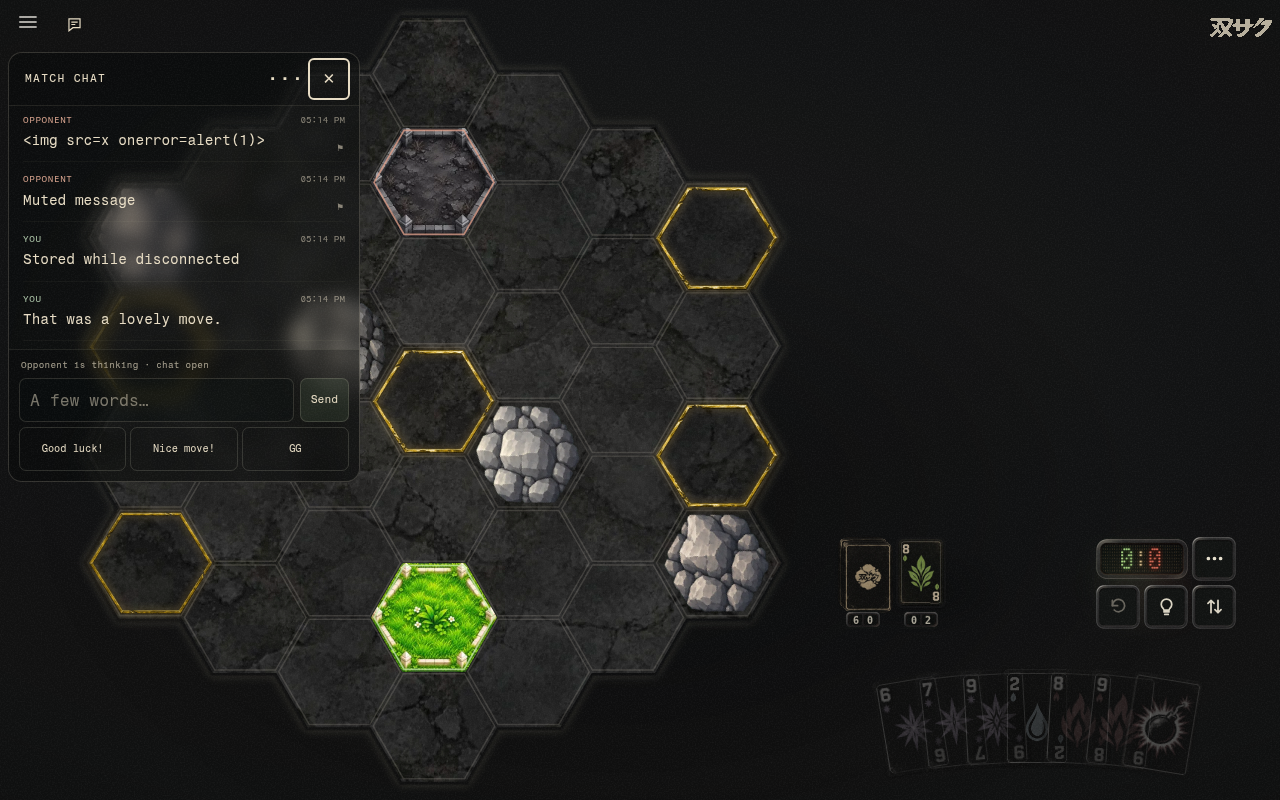
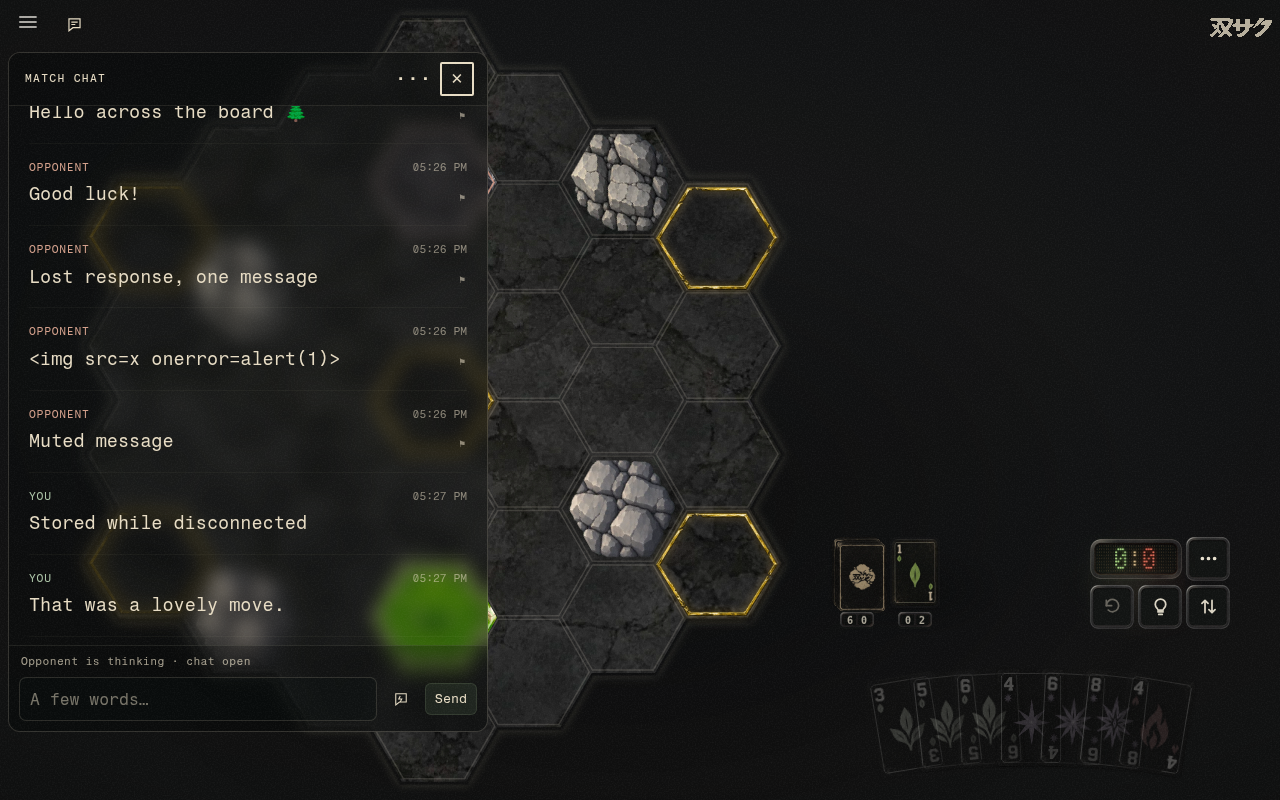
Expand match chat into a refined reading panel with tucked-away quick phrases

diff --git a/web/src/online/chat/style.ts b/web/src/online/chat/style.ts
@@ -3,7 +3,7 @@ export const CHAT_CSS = `
 #match-chat-toggle { position:absolute;left:52px;top:2px;width:44px;height:44px;z-index:12;pointer-events:auto;display:grid;place-items:center;color:#e8ddc5; }
 #match-chat-toggle svg {width:19px;height:19px;stroke:currentColor;stroke-width:1.5;fill:none;}
 .match-chat-dot {position:absolute;right:5px;top:6px;width:6px;height:6px;border-radius:50%;background:#e8ddc5;box-shadow:0 0 0 3px rgba(8,10,10,.5);}
-.match-chat-panel {position:fixed;z-index:65;top:var(--chat-top,56px);left:max(8px,env(safe-area-inset-left));width:min(352px,calc(100vw - 16px - env(safe-area-inset-right) - env(safe-area-inset-left)));height:min(430px,var(--chat-height,calc(100dvh - 72px)));box-sizing:border-box;display:flex;flex-direction:column;overflow:hidden;background:var(--dark-glass,rgba(8,10,10,.42));-webkit-backdrop-filter:var(--dark-glass-blur,blur(9px) saturate(1.05));backdrop-filter:var(--dark-glass-blur,blur(9px) saturate(1.05));border:1px solid rgba(232,221,197,.18);border-radius:14px;box-shadow:0 12px 36px #0004,inset 0 1px #fff08;animation:match-chat-in var(--ix-press,90ms) var(--ix-ease-open,ease-out);}
+.match-chat-panel {position:fixed;z-index:65;top:var(--chat-top,56px);left:max(8px,env(safe-area-inset-left));width:min(480px,calc(100vw - 16px - env(safe-area-inset-right) - env(safe-area-inset-left)));height:min(680px,var(--chat-height,calc(100dvh - 72px)));box-sizing:border-box;display:flex;flex-direction:column;overflow:hidden;background:var(--dark-glass,rgba(8,10,10,.42));-webkit-backdrop-filter:var(--dark-glass-blur,blur(9px) saturate(1.05));backdrop-filter:var(--dark-glass-blur,blur(9px) saturate(1.05));border:1px solid rgba(232,221,197,.18);border-radius:12px;box-shadow:0 12px 36px #0004,inset 0 1px #fff08;animation:match-chat-in var(--ix-press,90ms) var(--ix-ease-open,ease-out);}
 .match-chat-panel[hidden], .match-chat [hidden], #match-chat-toggle[hidden] {display:none!important;}
 .match-chat-head {display:flex;align-items:center;justify-content:space-between;gap:8px;padding:4px 8px 4px 16px;flex:none;border-bottom:1px solid #e8ddc51a;background:#080a0a38;}
 .match-chat-head-keys{display:flex;flex:none;}
@@ -13,25 +13,31 @@ export const CHAT_CSS = `
 .match-chat button:active {transform:translateY(1px);background:#e8ddc51a;}
 .match-chat button:focus-visible,.match-chat input:focus-visible,.match-chat select:focus-visible {outline:2px solid #e8ddc5;outline-offset:-3px;}
 .match-chat button:disabled {opacity:.36;cursor:default;transform:none;}
+.match-chat-head button:focus-visible{outline-offset:-7px;}
 .match-chat-head button {width:44px;padding:0;border:0;font-size:20px;}
-.match-chat-log {flex:1;min-height:36px;overflow:auto;overscroll-behavior:contain;scrollbar-width:thin;padding:8px 14px;overflow-anchor:none;}
-.match-chat-line {padding:10px 0;border-bottom:1px solid #e8ddc50b;overflow-wrap:anywhere;}
-.match-chat-meta {display:flex;align-items:center;gap:8px;color:#e8ddc58c;font-size:9px;letter-spacing:.07em;text-transform:uppercase;}
+.match-chat-log {flex:1;min-height:36px;overflow:auto;overscroll-behavior:contain;scrollbar-width:thin;padding:8px 20px;overflow-anchor:none;}
+.match-chat-line {padding:16px 0;border-bottom:1px solid #e8ddc50b;overflow-wrap:anywhere;}
+.match-chat-meta {display:flex;align-items:center;gap:8px;color:#e8ddc58c;font-size:11px;letter-spacing:.07em;text-transform:uppercase;}
 .match-chat-line[data-mine='true'] .match-chat-speaker {color:#abc3a6;}
 .match-chat-line[data-mine='false'] .match-chat-speaker {color:#d4a18c;}
 .match-chat-time {margin-left:auto;letter-spacing:0;}
-.match-chat-text {font-family:var(--font);font-size:14px;line-height:1.45;margin:5px 0 0;white-space:pre-wrap;}
+.match-chat-text {font-family:var(--font);font-size:18px;line-height:1.55;margin:5px 0 0;white-space:pre-wrap;}
 .match-chat-report {font-size:10px!important;min-height:44px!important;float:right;margin:0 -6px -4px 6px;padding:4px 8px!important;border:0!important;color:#e8ddc58c!important;}
-.match-chat-empty {color:#e8ddc58c;font-size:12px;line-height:1.6;padding:12px 0;}
-.match-chat-foot {flex:none;border-top:1px solid #e8ddc51a;padding:8px 10px max(10px,env(safe-area-inset-bottom));background:#080a0a45;}
-.match-chat-status {font-size:9px;line-height:1.5;letter-spacing:.035em;color:#e8ddc5b3;margin:0 2px 7px;}
+.match-chat-empty {color:#e8ddc58c;font-size:17px;line-height:1.6;padding:12px 0;}
+.match-chat-foot {position:relative;flex:none;border-top:1px solid #e8ddc51a;padding:8px 10px max(10px,env(safe-area-inset-bottom));background:#080a0a45;}
+.match-chat-status {font-size:11px;line-height:1.5;letter-spacing:.035em;color:#e8ddc5b3;margin:0 2px 7px;}
 .match-chat-form {display:flex;gap:6px;}
 .match-chat input {min-width:0;flex:1;border:1px solid #e8ddc529;border-radius:7px;background:#080a0a40;color:#e8ddc5;font-family:var(--font);font-size:16px;min-height:44px;box-sizing:border-box;padding:8px 10px;}
 .match-chat input:disabled {opacity:.45;}
 .match-chat input::placeholder {color:#e8ddc580;}
-.match-chat-send {font-size:11px!important;background:#728b6826!important;}
-.match-chat-phrases {display:flex;flex-wrap:wrap;gap:4px;margin-top:5px;}
-.match-chat-phrases button {font-size:10px;flex:1;padding:4px 8px;}
+.match-chat-send {font-size:13px!important;border:0!important;background:transparent!important;position:relative;isolation:isolate;}
+.match-chat-send::before{content:'';position:absolute;inset:6px 0;background:#728b6826;border:1px solid #a8bf9226;border-radius:6px;z-index:-1;}
+.match-chat-phrase-toggle{position:relative;flex:none;width:36px;padding:0!important;border:0!important;display:grid;place-items:center;}
+.match-chat-phrase-toggle svg{width:18px;height:18px;fill:none;stroke:currentColor;stroke-width:1.4;}
+.match-chat-phrase-toggle[aria-expanded='true']{color:#b8c8ad;background:#728b681a;}
+.match-chat-phrases {position:absolute;right:12px;bottom:calc(100% + 8px);display:flex;flex-direction:column;gap:2px;width:min(240px,calc(100% - 24px));padding:6px;box-sizing:border-box;max-height:max(56px,calc(var(--chat-height,500px) - 164px));overflow:auto;overscroll-behavior:contain;background:rgba(12,15,14,.94);backdrop-filter:var(--dark-glass-blur);border:1px solid #e8ddc52b;border-radius:9px;box-shadow:0 8px 24px #0005;z-index:2;}
+
+.match-chat-phrases button {font-size:15px;text-align:left;border:0;padding:6px 12px;}
 .match-chat-controls {border-top:1px solid #e8ddc514;padding:0 10px;flex:none;max-height:40%;overflow:auto;}
 .match-chat-controls:not([open]){display:none;}
 .match-chat-controls summary {display:none!important;cursor:pointer;min-height:44px;display:flex;align-items:center;font-size:10px;color:#e8ddc58c;}
@@ -43,9 +49,10 @@ export const CHAT_CSS = `
 .match-chat-outgoing {font-size:11px;line-height:1.5;padding:6px 0;color:#e8ddc5a6;}
 .match-chat-outgoing button {min-height:44px;font-size:10px;margin-left:6px;}
 body.paused .match-chat,body.result .match-chat,body.paused #match-chat-toggle {visibility:hidden;}
-.match-chat[data-keyboard='true'] :is(.match-chat-phrases,.match-chat-controls) {display:none;}
+.match-chat[data-keyboard='true'] .match-chat-controls {display:none;}
 @keyframes match-chat-in {from{opacity:0;transform:translateY(calc(var(--ix-travel,12px) / -4))}to{opacity:1;transform:none}}
-@media(max-height:450px) {.match-chat-panel{width:min(352px,50vw);height:var(--chat-height,calc(100dvh - 60px));}.match-chat-phrases{margin-top:2px}.match-chat-controls summary{min-height:44px}.match-chat-line{padding:6px 0}.match-chat-foot{padding:5px 8px;}}
+@media(max-height:450px) {.match-chat-panel{width:min(480px,calc(100vw - 16px));height:var(--chat-height,calc(100dvh - 60px));}.match-chat-phrases{margin-top:2px}.match-chat-controls summary{min-height:44px}.match-chat-line{padding:12px 0}.match-chat-foot{padding:5px 8px;}}
+@media(max-width:600px) {.match-chat-panel{width:calc(100vw - 16px - env(safe-area-inset-left) - env(safe-area-inset-right));height:var(--chat-height,calc(100dvh - 64px));}.match-chat-head{padding-left:18px;}.match-chat-text{font-size:18px;}.match-chat-log{padding-inline:18px;}}
 @media(prefers-reduced-motion:reduce) {.match-chat-panel{animation:none}.match-chat button:active{transform:none}}
 .reduce-motion .match-chat-panel {animation:none;}
 `;

diff --git a/web/src/online/chat/view.ts b/web/src/online/chat/view.ts
@@ -71,6 +71,7 @@ export const mountMatchChat = (o: {
   const close = button('×', () => setOpen(false));
   close.setAttribute('aria-label', copy.close);
   const toolsToggle = button('···', () => {
+    setPhrases(false);
     controls.open = !controls.open;
   });
   toolsToggle.setAttribute('aria-label', copy.tools);
@@ -139,6 +140,7 @@ export const mountMatchChat = (o: {
       );
       return;
     }
+    setPhrases(false);
     void ctl.send();
   };
   let composing = false;
@@ -160,12 +162,38 @@ export const mountMatchChat = (o: {
     if (e.key === 'Enter' && (e.isComposing || composing || e.keyCode === 229))
       e.preventDefault();
   };
-  form.append(input, send);
   const phrases = document.createElement('div');
   phrases.className = 'match-chat-phrases';
+  phrases.id = 'match-chat-phrases';
+  phrases.hidden = true;
+  phrases.setAttribute('role', 'group');
+  phrases.setAttribute('aria-label', copy.quickPhrases);
+  const phraseToggle = button('', () => setPhrases(Boolean(phrases.hidden)));
+  phraseToggle.className = 'match-chat-phrase-toggle';
+  phraseToggle.setAttribute('aria-label', copy.quickPhrases);
+  phraseToggle.setAttribute('aria-expanded', 'false');
+  phraseToggle.setAttribute('aria-controls', phrases.id);
+  phraseToggle.innerHTML =
+    '<svg viewBox="0 0 24 24" aria-hidden="true"><path d="M5 5h14v11H10l-5 4V5Z"/><path d="m11 8-2 4h4l-2 4"/></svg>';
+  function setPhrases(open: boolean) {
+    phrases.hidden = !open;
+    phraseToggle.setAttribute('aria-expanded', String(open));
+    if (open) {
+      controls.open = false;
+      const first = phrases.querySelector<HTMLButtonElement>(
+        'button:not(:disabled)',
+      );
+      (first ?? phraseToggle).focus({ preventScroll: true });
+    }
+  }
+  form.append(input, phraseToggle, send);
   for (const id of Object.keys(copy.phrases) as QuickPhrase[])
     phrases.append(
-      button(copy.phrases[id], () => void ctl.send({ text: null, phrase: id })),
+      button(copy.phrases[id], () => {
+        setPhrases(false);
+        phraseToggle.focus({ preventScroll: true });
+        void ctl.send({ text: null, phrase: id });
+      }),
     );
   foot.append(status, outgoing, form, phrases);
   const controls = document.createElement('details');
@@ -384,6 +412,7 @@ export const mountMatchChat = (o: {
     block.setAttribute('aria-pressed', String(s.blockedByMe));
   }
   function setOpen(value: boolean) {
+    setPhrases(false);
     ctl.setOpen(value);
     if (value) {
       close.focus({ preventScroll: true });
@@ -398,6 +427,13 @@ export const mountMatchChat = (o: {
   }
   toggle.onclick = () => setOpen(!ctl.state().open);
   const keydown = (e: KeyboardEvent) => {
+    if (e.key === 'Escape' && !phrases.hidden) {
+      e.preventDefault();
+      e.stopPropagation();
+      setPhrases(false);
+      phraseToggle.focus({ preventScroll: true });
+      return;
+    }
     if (e.key === 'Escape' && ctl.state().open) {
       e.preventDefault();
       e.stopPropagation();
@@ -406,6 +442,12 @@ export const mountMatchChat = (o: {
   };
   document.addEventListener('keydown', keydown, true);
   const outside = (e: PointerEvent) => {
+    if (
+      !phrases.hidden &&
+      !phrases.contains(e.target as Node) &&
+      !phraseToggle.contains(e.target as Node)
+    )
+      setPhrases(false);
     if (
       ctl.state().open &&
       !root.contains(e.target as Node) &&
@@ -427,30 +469,18 @@ export const mountMatchChat = (o: {
   window.addEventListener('online', resume);
   window.addEventListener('focus', resume);
   const viewport = () => {
+    const followLatest =
+      log.scrollHeight - log.scrollTop - log.clientHeight < 44;
     const v = window.visualViewport;
     const height = v?.height ?? window.innerHeight;
     const keyboard = height < window.innerHeight * 0.75;
     const top = keyboard && height < 350 ? 8 : 52;
-    let available = height - top - 12;
-    const dock = o.host.querySelector<HTMLElement>('#dock, .dock');
-    // Portrait: keep the entire cockpit usable. Landscape/desktop place it beside the board.
-    if (
-      !keyboard &&
-      window.innerWidth < 600 &&
-      window.innerHeight > window.innerWidth &&
-      dock
-    ) {
-      const dockTop = dock.getBoundingClientRect().top;
-      if (dockTop > top + 180)
-        available = Math.min(available, dockTop - top - 8);
-    }
+    const available = height - top - 12;
     root.dataset.keyboard = String(keyboard);
     root.style.setProperty('--chat-top', `${(v?.offsetTop ?? 0) + top}px`);
     root.style.setProperty('--chat-height', `${Math.max(120, available)}px`);
+    if (followLatest && ctl.state().open) log.scrollTop = log.scrollHeight;
   };
-  const dockObserver = new ResizeObserver(viewport);
-  const dock = o.host.querySelector<HTMLElement>('#dock, .dock');
-  if (dock) dockObserver.observe(dock);
   window.visualViewport?.addEventListener('resize', viewport);
   window.visualViewport?.addEventListener('scroll', viewport);
   window.addEventListener('resize', viewport);
@@ -460,7 +490,6 @@ export const mountMatchChat = (o: {
     update: () => ctl.turnChanged(),
     stop() {
       ctl.stop();
-      dockObserver.disconnect();
       document.removeEventListener('keydown', keydown, true);
       if (previewTimer) clearTimeout(previewTimer);
       document.removeEventListener('pointerdown', outside);

diff --git a/web/e2e/match-chat.ts b/web/e2e/match-chat.ts
@@ -248,7 +248,31 @@ try {
     !(await receiver.locator('.match-chat-dot').isVisible()),
   );
   now += 2000;
+  check(
+    'quick phrases stay hidden until requested',
+    !(await sender.locator('.match-chat-phrases').isVisible()),
+  );
+  await sender
+    .getByRole('button', { name: 'Quick phrases', exact: true })
+    .click();
+  await sender.screenshot({ path: `${out}/quick-phrases.png` });
+  await sender.keyboard.press('Escape');
+  check(
+    'Escape closes only the phrase picker and restores its trigger',
+    (await sender.locator('.match-chat-panel').isVisible()) &&
+      !(await sender.locator('.match-chat-phrases').isVisible()) &&
+      (await sender
+        .locator('.match-chat-phrase-toggle')
+        .evaluate((e) => e === document.activeElement)),
+  );
+  await sender
+    .getByRole('button', { name: 'Quick phrases', exact: true })
+    .click();
   await sender.locator('.match-chat-phrases button').first().click();
+  check(
+    'choosing a quick phrase dismisses the picker',
+    !(await sender.locator('.match-chat-phrases').isVisible()),
+  );
   await receiver
     .locator('.match-chat-log')
     .getByText('Good luck!', { exact: true })
@@ -432,7 +456,15 @@ try {
         ),
       ].filter((b) => b.offsetWidth && b.offsetHeight);
       return {
-        cockpit: innerWidth>=600||innerHeight<=innerWidth||p.bottom<=document.querySelector('#dock, .dock')!.getBoundingClientRect().top-4,
+        reading:
+          p.height >= Math.min(500, innerHeight - 80) &&
+          parseFloat(
+            getComputedStyle(document.querySelector('.match-chat-text')!)
+              .fontSize,
+          ) >= 18,
+        phrasesHidden: (
+          document.querySelector('.match-chat-phrases') as HTMLElement
+        ).hidden,
         bounds:
           p.left >= 0 &&
           p.right <= innerWidth + 1 &&
@@ -446,8 +478,9 @@ try {
       };
     });
     check(
-      `${width}×${height}: bounded panel, no page overflow, 44px controls and no menu/logo collision`,
-      geometry.cockpit &&
+      `${width}×${height}: expanded reading panel, larger text, hidden phrases and accessible controls`,
+      geometry.reading &&
+        geometry.phrasesHidden &&
         geometry.bounds &&
         geometry.scroll &&
         geometry.menu &&
@@ -481,6 +514,13 @@ try {
         document.querySelector('.match-chat-form')!.getBoundingClientRect()
           .bottom <= 430,
     ),
+  );
+  check(
+    'keyboard resizing keeps the latest message in view when already at the end',
+    await sender.evaluate(() => {
+      const log = document.querySelector('.match-chat-log')!;
+      return log.scrollHeight - log.scrollTop - log.clientHeight < 44;
+    }),
   );
   await sender.screenshot({ path: `${out}/keyboard-resize.png` });
   await sender.keyboard.press('Escape');

diff --git a/src/strings.ts b/src/strings.ts
@@ -1470,6 +1470,7 @@ export const MATCH_CHAT = {
   ready: 'Opponent is thinking · chat open', ended: 'Match ended · history only',
   placeholder: 'A few words…', send: 'Send', pending: 'Sending…', sent: 'Sent', failed: 'Not sent',
   retry: 'Retry', discard: 'Discard', older: 'Earlier messages', newer: 'New messages',
+  quickPhrases: 'Quick phrases',
   tools: 'Chat controls', mute: 'Mute previews', unmute: 'Unmute previews',
   block: 'Block chat with opponent', unblock: 'Unblock opponent', blocked: 'Chat blocked · history only',
   report: 'Report message', reportConfirm: 'Send report', reportDone: 'Report sent for review.',

diff --git a/docs/MATCH-CHAT.md b/docs/MATCH-CHAT.md
@@ -21,7 +21,7 @@ All new interface copy is in `src/strings.ts` → `MATCH_CHAT`. `mountMatchChat`
 copy object for the localisation agent. Timestamps use Intl and the browser locale. No translation
 framework, dependency or localised text is persisted. Only English copy is supplied in this branch.
 
-Portrait panels stay above the cockpit; a ResizeObserver follows actual dock layout. The visual viewport controls panel height/offset without resizing the game. Font-size 16px avoids
+Updated design: portrait chat fills the available viewport over the board and cockpit; desktop grows to 480×680px. Transcript text is 18px. Quick phrases live in a compact picker behind the icon beside Send, hidden by default. Controls retain 44px hit areas with slimmer visual surfaces. The visual viewport controls panel height/offset without resizing the game. Font-size 16px avoids
 iOS focus zoom; safe areas, contained transcript scrolling and no document scroll locks. Desktop
 keyboard navigation and a quiet live region are supported. The panel is nonmodal, so it deliberately
 does not trap focus or make gameplay inert. Turn changes preserve drafts. Drafts exist only for the
@@ -87,7 +87,7 @@ focus, online event or reopen fetches the gap. Realtime outages therefore retain
 individual missed hint is not guaranteed to appear until one of those recovery events occurs.
 
 All in-flight browser requests abort on teardown; subscriptions, preview/coalescing timeouts, focus,
-visibility, keyboard and visualViewport listeners and the dock ResizeObserver are removed. A late response from a previous match
+visibility, keyboard and visualViewport listeners are removed. A late response from a previous match
 cannot enter the next transcript. There is no typing, presence, read-receipt or background render loop.
 
 Indexes cover `(match_id,sequence)` and sender/time rate checks. Migration 0017 installs an hourly,
@@ -168,7 +168,7 @@ keyboards. Simulated visualViewport keyboard checks are not a claim of physical 
   delivery, previews/unread, quick phrases, a committed-but-lost HTTP response followed by safe retry,
   untrusted text, mute/block/report, preserved drafts at turn change, reconnect, and complete teardown.
 - Screenshots/geometry inspected at **320×568, 360×640, 390×844, 844×390 and 1280×800**. Assertions
-  require a visible panel, cockpit clearance in portrait, no page overflow, 44px targets and no
+  require a visible panel, expanded reading space and 18px transcript text, no page overflow, 44px targets and no
   menu/logo collision. Visual viewport keyboard resizing and Escape focus restoration passed.
 - Existing `web/e2e/futa04-motion.ts` passed: Draw/Throw, Bloom, both cut sizes, Reduce motion and
   Mega Bomb. Existing board motion tokens/engine logic were not changed.
@@ -182,3 +182,27 @@ keyboards. Simulated visualViewport keyboard checks are not a claim of physical 
 Reviewed captures: [small phone](screens/match-chat/phone.png),
 [desktop](screens/match-chat/desktop.png), [landscape](screens/match-chat/landscape.png).
 These are test conversations, not real players or production chat data.
+
+## Expanded panel design follow-up
+
+Owner direction supersedes the original cockpit-clearance design: mobile chat may cover the board
+and cockpit. The panel now uses the available portrait viewport, and grows to 480×680px on desktop.
+The transcript uses 18px text with more line spacing. Controls have slimmer visible surfaces while
+retaining 44px touch targets. No gameplay layout is resized to accommodate the larger overlay.
+
+Quick phrases are hidden by default behind the icon beside Send. The picker closes after selection,
+outside interaction or Escape; Escape first returns focus to its trigger without closing chat.
+Its choices retain the same authoritative turn restrictions. It stays usable with the keyboard open,
+with bounded scrolling in short viewports. Chat controls and phrases use mutually exclusive drawers.
+The new `MATCH_CHAT.quickPhrases` copy key must be included when integrating translations.
+
+The redesign's two-client browser run used the local in-memory authority and simulated Realtime
+wire: **32 checks passed**, including expanded panel geometry, 18px text, hidden phrases, selection,
+Escape focus, five screen sizes and simulated keyboard resizing (including following the latest message when already at the end). Earlier Postgres/security evidence
+above remains applicable; this follow-up changes presentation only. Updated captures replace the
+original small-panel screenshots, including [the quick-phrase picker](screens/match-chat/quick-phrases.png).
+
+Follow-up validation: full `npm run check` passed **283 files / 2,902 tests**, with 1 expected failure
+and 65 optional/database skips. Focused chat/channel tests passed (16), final TypeScript checks
+passed, both production channel builds/assets checks passed, and the existing Futa04 motion suite
+passed. No backend, migration, gameplay or deployment changes were needed for this design revision.
